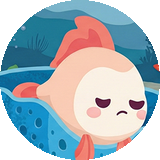
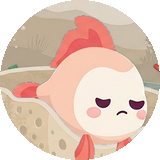
Trial emails: warm neutral palette instead of ocean blue
Oat page, sand banner, espresso text and button, oat panels, sage for the
no-charge note, Sushi coral as the one accent. Hero GIFs regenerated on
sand; mood tiles keep the Live Activity scenes but their blue water is
shifted to sand (scripts/make-trial-email-moods.py). Link pages match.

diff --git a/src/lib/trial-emails/content.ts b/src/lib/trial-emails/content.ts
@@ -10,8 +10,8 @@
  * real welcome emails (Duolingo: mascot first, one ask, one big button;
  * Strava: brand header, colour hero, numbered steps; Calm: white cards on a
  * tinted page) in DreamMe's brand palette (DreamMe_Brand_Guidelines.pdf:
- * Ocean Sky backgrounds, Deep Sea buttons with Seafoam White text, Midnight
- * Depth text, Coral Bloom for progress). Headlines use Jellee (the store
+ * first Ocean Sky / Deep Sea, then reworked to warm neutrals with Sushi's
+ * coral as the one accent after Dan found the blue off). Headlines use Jellee (the store
  * listing face) where the mail app loads web fonts (Apple Mail), system bold
  * elsewhere. Table layout and inline styles only, so Gmail keeps it.
  *
@@ -247,17 +247,20 @@ const esc = (s: string) => s.replace(/&/g, "&amp;").replace(/</g, "&lt;").replac
 // Brand palette (DreamMe_Brand_Guidelines.pdf). Email clients don't support
 // CSS variables, so these are literal on purpose.
 const C = {
-  page: "#F0FAFF", // Seafoam White
-  hero: "#B8E4F0", // Ocean Sky
+  // Warm neutral palette (Dan 2026-11-10: "more lux and neutral, the blue is
+  // throwing me off"). Restrained strategy: tinted neutrals + Sushi's coral as
+  // the one accent. Contrast on white: ink 14.8:1, ink2 5.9:1.
+  page: "#F6F2EC", // warm oat
+  hero: "#EDE4D8", // sand (matches the hero GIF ground)
   card: "#FFFFFF",
-  ink: "#1A3550", // Midnight Depth
-  ink2: "#3E5A74", // Midnight Depth, lighter, for secondary text (5.9:1 on white)
-  cta: "#2D5F8A", // Deep Sea
-  ctaText: "#F0FAFF",
-  coral: "#F4826A", // Coral Bloom (progress)
-  panel: "#EAF6FB", // Ocean Sky, light
-  good: "#E4F3EA", // Sea Kelp, light
-  goodInk: "#25603E", // Sea Kelp, dark
+  ink: "#2E2622", // espresso
+  ink2: "#6B5E55", // warm taupe, secondary text
+  cta: "#2E2622", // espresso button
+  ctaText: "#FBF7F2",
+  coral: "#D9705A", // Sushi coral, step numbers and today's dot
+  panel: "#F6F0E8", // light oat panels
+  good: "#EDF1E7", // sage, the "you won't be charged" panel
+  goodInk: "#3D5A39",
 };
 const SANS = `-apple-system, BlinkMacSystemFont, 'Segoe UI', Roboto, Helvetica, Arial, sans-serif`;
 const DISPLAY = `'Jellee', ${SANS}`;
@@ -324,7 +327,7 @@ function weekHtml(items: { when: string; what: string }[]): string {
   const rows = items
     .map(
       (x, n) => `<tr>
-<td width="12" valign="top" style="padding:7px 12px 0 0;"><div style="width:10px;height:10px;border-radius:5px;background:${n === 0 ? C.coral : C.hero};"></div></td>
+<td width="12" valign="top" style="padding:7px 12px 0 0;"><div style="width:10px;height:10px;border-radius:5px;background:${n === 0 ? C.coral : "#D9CBB8"};"></div></td>
 <td valign="top" style="padding:0 0 12px;font-family:${SANS};font-size:16px;line-height:22px;color:${C.ink};"><strong>${esc(x.when)}</strong><br>${esc(
         x.what.charAt(0).toUpperCase() + x.what.slice(1),
       )}</td>

diff --git a/src/lib/trial-emails/pages.ts b/src/lib/trial-emails/pages.ts
@@ -3,7 +3,7 @@
  * Users see these on their phone, so they carry DreamMe's look, not the DAD's.
  */
 const FONT = `-apple-system, BlinkMacSystemFont, 'Segoe UI', Roboto, Helvetica, Arial, sans-serif`;
-const INK = "#1A3550";
+const INK = "#2E2622"; // espresso, matches the emails
 
 export const APP_DEEP_LINK = "dreamme://";
 export const APP_STORE_URL = "https://apps.apple.com/app/id6755569693";
@@ -16,13 +16,13 @@ export function page(title: string, body: string, extraHead = ""): Response {
 <meta name="viewport" content="width=device-width,initial-scale=1"><meta name="robots" content="noindex">
 <title>${esc(title)}</title>${extraHead}
 <style>
-body{margin:0;background:#FFFFFF;color:${INK};font:400 17px/1.5 ${FONT};}
+body{margin:0;background:#F6F2EC;color:${INK};font:400 17px/1.5 ${FONT};}
 main{max-width:420px;margin:0 auto;padding:48px 24px;text-align:center;}
 h1{font:600 22px/1.3 ${FONT};margin:16px 0 8px;}
 p{margin:0 0 20px;}
-.btn{display:inline-block;background:${INK};color:#FFFFFF;text-decoration:none;font:600 17px ${FONT};padding:14px 28px;border-radius:12px;border:0;cursor:pointer;}
-.small{font-size:14px;color:#4A5B6E;}
-.small a{color:#4A5B6E;}
+.btn{display:inline-block;background:${INK};color:#FBF7F2;text-decoration:none;font:600 17px ${FONT};padding:14px 28px;border-radius:12px;border:0;cursor:pointer;}
+.small{font-size:14px;color:#6B5E55;}
+.small a{color:#6B5E55;}
 img{width:96px;height:auto;}
 </style></head><body><main>${body}</main></body></html>`;
   return new Response(html, {

diff --git a/scripts/make-trial-email-hero.py b/scripts/make-trial-email-hero.py
@@ -12,9 +12,9 @@ SRC = "C:/Users/Dan/Documents/DreamMe/claude/store-listings/search-card-2026-11/
 OUT = sys.argv[1]  # usage: python scripts/make-trial-email-hero.py public/email
 
 W, H = 480, 480  # 2x of 240x240
-SKY = (184, 228, 240)  # Ocean Sky
-PAGE = (240, 250, 255)  # Seafoam White (page behind the card)
-GOLD = (245, 166, 35)
+SKY = (237, 228, 216)  # warm sand (was Ocean Sky; Dan 2026-11-10: more lux and neutral)
+PAGE = (246, 242, 236)  # warm oat (page behind the card)
+GOLD = (201, 162, 74)  # muted gold
 WHITE = (255, 255, 255)
 CORAL = (244, 130, 106)
 FRAMES = 16
@@ -64,7 +64,7 @@ def make(pose: str, floaters: str, name: str):
         im = Image.new("RGBA", (W, H), SKY + (255,))
         d = ImageDraw.Draw(im, "RGBA")
         # soft bubble ring behind Sushi (the brand cover's circles)
-        d.ellipse([150, 70, 560, 480], fill=(205, 237, 246, 255))
+        d.ellipse([150, 70, 560, 480], fill=(246, 240, 232, 255))
         # floaters rising
         for x, ph, s in floats:
             p = (t + ph) % 1.0
@@ -72,8 +72,8 @@ def make(pose: str, floaters: str, name: str):
             alpha = min(1.0, p * 4) * min(1.0, (1 - p) * 3)
             xx = x + 8 * math.sin(2 * math.pi * (p * 2 + ph))
             if floaters == "bubbles":
-                d.ellipse([xx - s, y - s, xx + s, y + s], outline=WHITE + (int(220 * alpha),), width=3)
-                d.ellipse([xx - s * 0.35, y - s * 0.55, xx - s * 0.05, y - s * 0.25], fill=WHITE + (int(200 * alpha),))
+                d.ellipse([xx - s, y - s, xx + s, y + s], outline=(196, 178, 156) + (int(220 * alpha),), width=3)
+                d.ellipse([xx - s * 0.35, y - s * 0.55, xx - s * 0.05, y - s * 0.25], fill=(255, 255, 255) + (int(230 * alpha),))
             else:
                 heart(d, xx, y, s * 1.5, CORAL, 0.9 * alpha)
         # Sushi: bob and sway

diff --git a/scripts/make-trial-email-moods.py b/scripts/make-trial-email-moods.py
@@ -1,0 +1,41 @@
+"""Day-1 mood tiles for the trial emails (Great / Okay / Rough / Tired).
+
+Cropped from the shot-day Live Activity scenes in the app repo
+(widgets/Assets.xcassets/{happy,content,sad,sleeping}sushi.imageset), with the
+blue water shifted to warm sand so the tiles match the neutral email palette.
+Sushi (coral/cream), sand, coral and greenery keep their colours.
+
+usage: python scripts/make-trial-email-moods.py <dir with the four scene PNGs> public/email
+"""
+import sys
+
+import cv2
+import numpy as np
+from PIL import Image, ImageDraw
+
+SRC, OUT = sys.argv[1], sys.argv[2]
+CROPS = {
+    "great": ("happysushi.png", (285, 5, 445, 165)),
+    "okay": ("contentsushi.png", (275, 170, 515, 410)),
+    "rough": ("sadsushi.png", (195, 175, 435, 415)),
+    "tired": ("sleepingsushi.png", (185, 140, 425, 380)),
+}
+
+
+def neutralize(im: Image.Image) -> Image.Image:
+    hsv = cv2.cvtColor(np.asarray(im.convert("RGB")), cv2.COLOR_RGB2HSV).astype(np.float32)
+    h, s, v = hsv[..., 0], hsv[..., 1], hsv[..., 2]
+    blue = (h >= 80) & (h <= 135) & (s > 40)  # OpenCV hue is 0-179
+    hsv[..., 0] = np.where(blue, 18, h)
+    hsv[..., 1] = np.where(blue, np.clip(s * 0.28, 0, 255), s)
+    hsv[..., 2] = np.where(blue, np.clip(v * 0.55 + 110, 0, 255), v)
+    return Image.fromarray(cv2.cvtColor(hsv.astype(np.uint8), cv2.COLOR_HSV2RGB))
+
+
+for name, (file, box) in CROPS.items():
+    tile = neutralize(Image.open(f"{SRC}/{file}").crop(box)).resize((160, 160), Image.LANCZOS).convert("RGBA")
+    mask = Image.new("L", (160, 160), 0)
+    ImageDraw.Draw(mask).ellipse([0, 0, 159, 159], fill=255)
+    tile.putalpha(mask)
+    tile.save(f"{OUT}/mood-{name}.png", optimize=True)
+print("ok")
